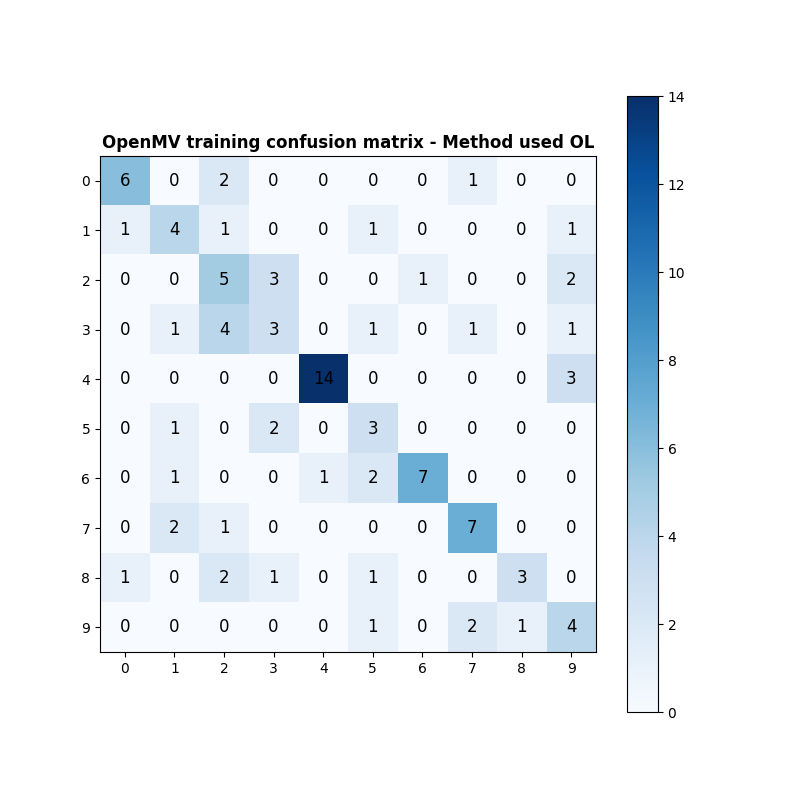
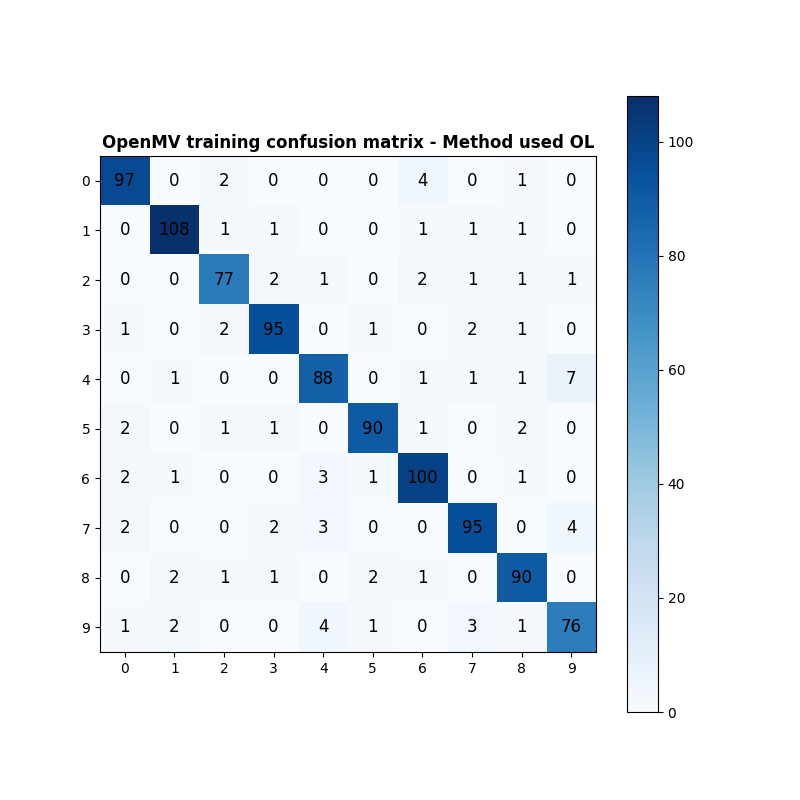
5/7 methods work correctly

diff --git a/OpenMV_application/Scripts/OpenMV_files/OpenMV_OL_training_sync.py b/OpenMV_application/Scripts/OpenMV_files/OpenMV_OL_training_sync.py
@@ -35,12 +35,12 @@ myLib.load_weights(OL_layer)            # Read from the txt file the biases and 
 # TRAINING METHOD SELECTION **********************************
 # 0 -> no training, just inference
 # 1 -> OL               WORKS - perfoms good
-# 2 -> OLV2             WORKS - labels confused
-# 3 -> LWF              WORKS - still to test best performance
-# 4 -> CWR              IMPLEMENTED
-# 5 -> OL mini batch    WORKS - still to test best performance
-# 6 -> OLV2 mini batch  WORKS - still to test best performance
-# 7 -> LWF mini batch   WORKS - still to test best performance
+# 2 -> OLV2             WORKS - perfoms good
+# 3 -> LWF              WORKS - perfoms good
+# 4 -> CWR              WORKS - performs not so good
+# 5 -> OL mini batch    NOT WORKS - still to test best performance
+# 6 -> OLV2 mini batch  NOT WORKS - still to test best performance
+# 7 -> LWF mini batch   NOT WORKS - still to test best performance
 OL_layer.method = 7
 
 myLib.allocateMemory(OL_layer)
@@ -50,9 +50,11 @@ label = 'X'
 # DEFINE TRAINING PARAMS
 OL_layer.l_rate      = 0.005
 OL_layer.batch_size  = 8
-OL_layer.train_limit = 900      # after how many prediction start testing
+OL_layer.train_limit = 3000      # after how many prediction start testing
 OL_layer.counter     = 0        # just a reset
 midpoint_type = 1
+
+led1 = pyb.LED(2)
 
 
 while(True):
@@ -91,6 +93,7 @@ while(True):
     # TRAIN
     elif(cmd == 'trai'):
 
+        led1.on()
         t_0 = pyb.millis()
 
         img = sensor.snapshot()             # Take the photo and return image
@@ -117,6 +120,9 @@ while(True):
         OL_layer.times[0,1] += t_2 - t_1
         OL_layer.times[0,2] += t_2 - t_0
         OL_layer.counter += 1
+
+        if(OL_layer.counter>3999):
+            myLib.write_results(OL_layer)       # Write confusion matrix in a txt file
 
     # STREAM
     else:

diff --git a/OpenMV_application/Scripts/OpenMV_files/OpenMV_myLib.py b/OpenMV_application/Scripts/OpenMV_files/OpenMV_myLib.py
@@ -587,14 +587,16 @@ def train_OLV2_mini_batch(OL_layer, true_label, out_frozen):
         OL_layer.weights_new_2[i,:] = OL_layer.weights_new_2[i,:] + dW[0,:]
         OL_layer.biases_new_2[i,0]  = OL_layer.biases_new_2[i,0] + cost[i,0]
 
+    # BATCH FINISHED
     if((OL_layer.counter % OL_layer.batch_size == 0) and (OL_layer.counter != 0)):
 
         for i in range(0, size):
             OL_layer.weights_new[i,:] = OL_layer.weights_new[i,:] - OL_layer.weights_new_2[i,:]
             OL_layer.biases_new[i,0]  = OL_layer.biases_new[i,0] - OL_layer.biases_new_2[i,0]
             # Reset
-        OL_layer.OL_layer.weights_new_2[i,:] = np.zeros((size,OL_layer.H)).copy()
-        OL_layer.biases_new_2[i,0] = np.zeros((size, 1)).copy()
+            for j in range(0, OL_layer.H):
+                OL_layer.weights_new_2[i,j] = 0
+        OL_layer.biases_new_2[i,0] = 0
 
     return prediction
 

diff --git a/OpenMV_application/Scripts/OpenMV_files/OpenMV_OL_training_debug.py b/OpenMV_application/Scripts/OpenMV_files/OpenMV_OL_training_debug.py
@@ -41,7 +41,7 @@ myLib.load_labels(OL_layer)
 # 5 -> OL mini batch
 # 6 -> OLV2 mini batch
 # 7 -> LWF mini batch
-OL_layer.method = 3
+OL_layer.method = 7
 myLib.allocateMemory(OL_layer)
 
 current_label ='X'
@@ -61,7 +61,7 @@ while(True):
 
 
     # CHECK LABEL
-    if(counter%47==0 and train_counter<len(OL_layer.true_label)):
+    if(counter%10==0 and train_counter<len(OL_layer.true_label)):
         current_label = OL_layer.true_label[train_counter]
         myLib.check_label(OL_layer, current_label)
         true_label = myLib.label_to_softmax(OL_layer, current_label)
@@ -70,7 +70,7 @@ while(True):
 
     t_1 = pyb.millis()
     # PERFORM BACK PROPAGATION AND UPDATE PERFORMANCE COUNTER
-    if(counter%47==0 and train_counter<100):
+    if(counter%10==0 and train_counter<100):
 
         prediction = myLib.train_layer(OL_layer, true_label, out_frozen)
         train_counter+=1

diff --git a/OpenMV_application/Scripts/Trainings/run_imageDisplay.py b/OpenMV_application/Scripts/Trainings/run_imageDisplay.py
@@ -116,7 +116,7 @@ cv2.imshow('SYNC APP', init_img)
 cv2.createTrackbar('Training', 'SYNC APP', 0, 3, on_change)
 
 # Import the dataset that I am going to display
-samples_for_each_digit = 100
+samples_for_each_digit = 400
 digits_i_want          = [0,1,2,3,4,5,6,7,8,9]
 digits_data, digits_label = createDataset(samples_for_each_digit+1, digits_i_want)    # load dataset
 tot_samples = len(digits_label)-8
